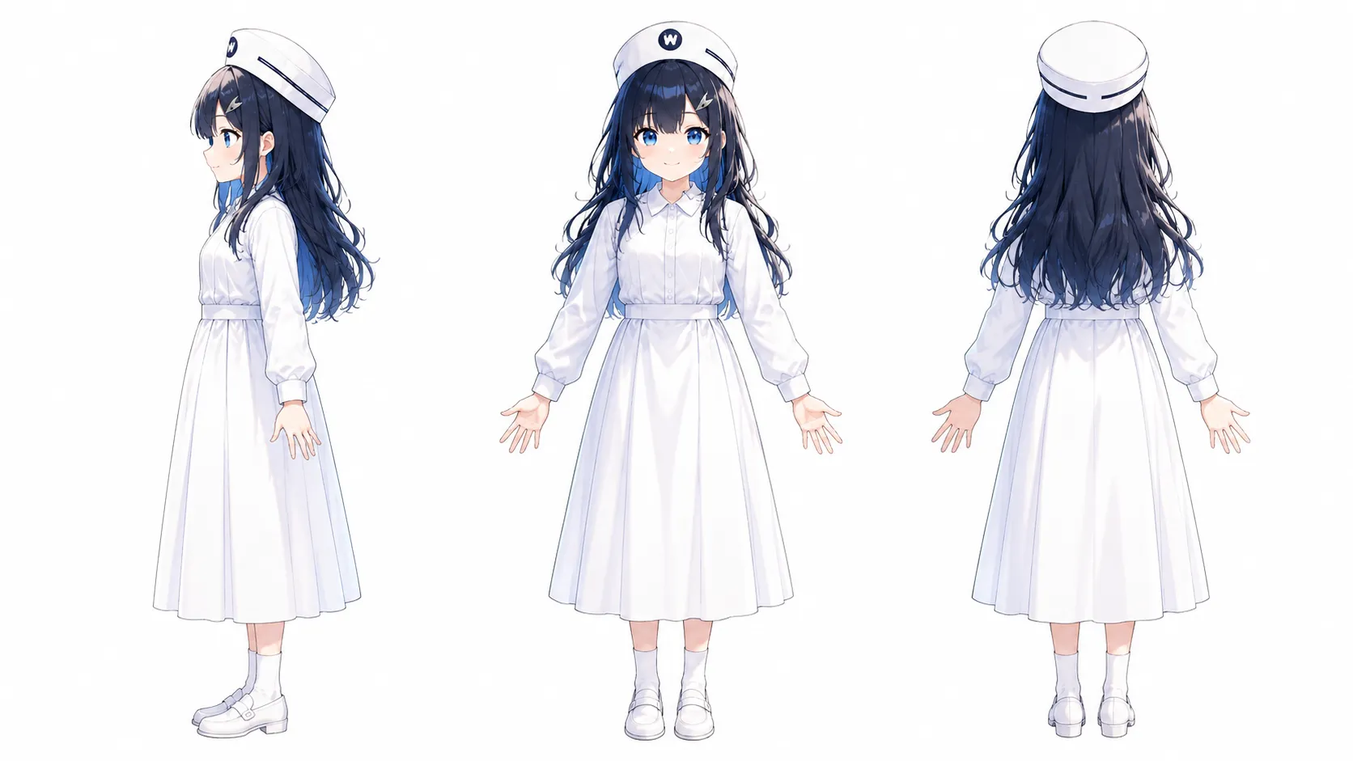
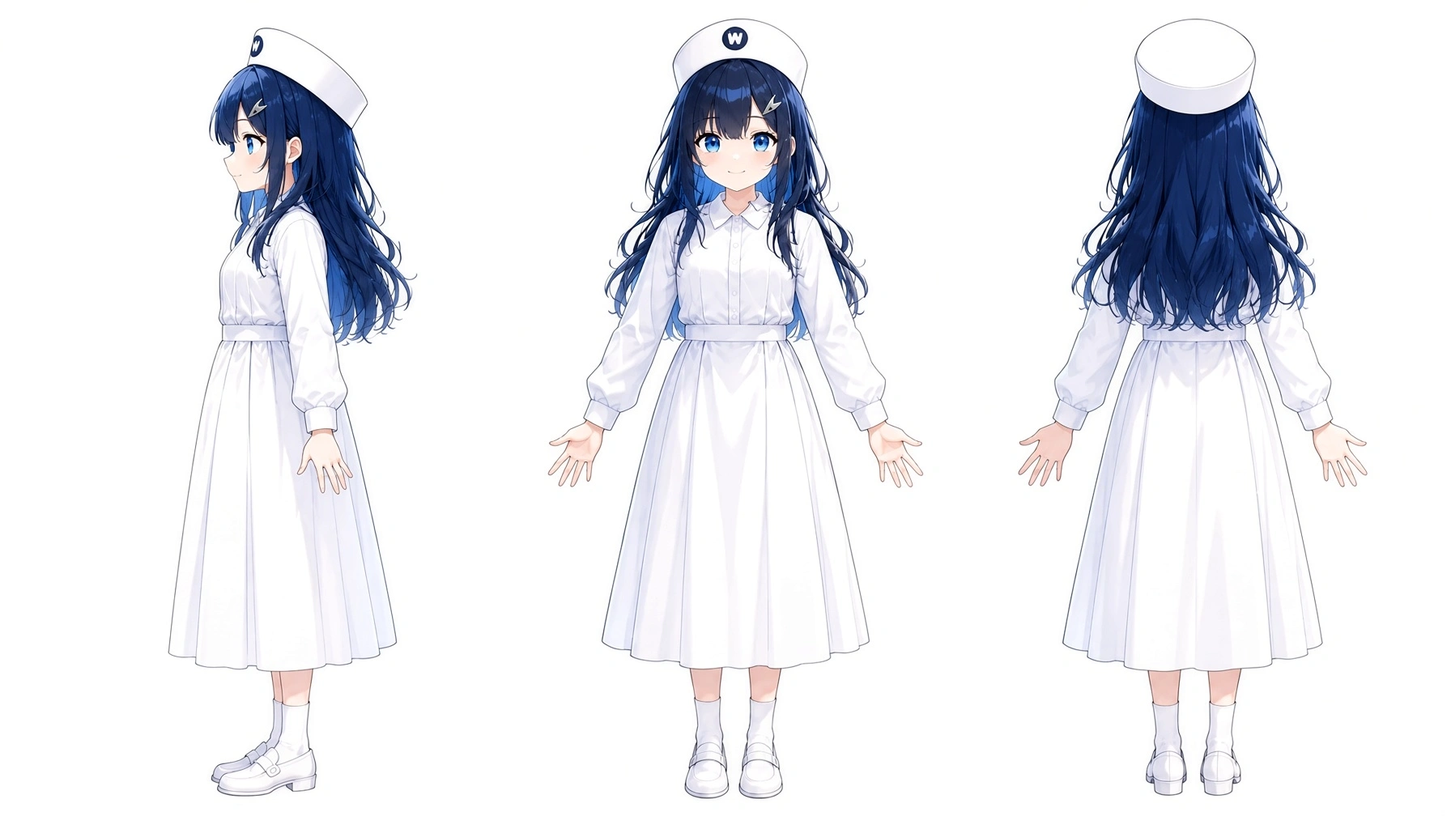
公式ビジュアル バージョン1更新 (#85)
* Update official visual version 1 metadata and history

* Update official visual version 1 metadata and history

* Update official visual version 1 metadata and history

* Update official visual version 1 metadata and history

* Update expected bilingual news entry

* Add files via upload

* Correct version 1 gallery dimensions

* Add files via upload

* Add files via upload

* Remove duplicate unreferenced visual upload

* Correct archived original image path in changelog

* Prepare official visual path for metadata-cleaned WebP

* Add files via upload

* Remove embedded image metadata from official visual

* Correct WebP metadata flags after profile removal

diff --git a/index.html b/index.html
@@ -25,7 +25,7 @@
   <link rel="alternate" hreflang="ja" href="https://abcderp2.github.io/suzukochan.officialsite/">
   <link rel="alternate" hreflang="en" href="https://abcderp2.github.io/suzukochan.officialsite/en.html">
   <link rel="alternate" hreflang="x-default" href="https://abcderp2.github.io/suzukochan.officialsite/">
-  <meta property="og:title" content="鈴子ちゃん公式サイト"><meta property="og:type" content="website"><meta property="og:url" content="https://abcderp2.github.io/suzukochan.officialsite/"><meta property="og:image" content="https://abcderp2.github.io/suzukochan.officialsite/assets/images/suzuko-chan-gallery-1.webp"><meta property="og:image:alt" content="鈴子ちゃんの公式ビジュアル バージョン1"><meta property="og:image:width" content="5504"><meta property="og:image:height" content="3072"><meta property="og:description" content="鈴子ちゃんと架空のWhite Wing病院の公式サイト。プロフィール、公式ビジュアル、更新情報、ガイドラインを掲載します。"><meta property="og:site_name" content="鈴子ちゃん公式サイト">
+  <meta property="og:title" content="鈴子ちゃん公式サイト"><meta property="og:type" content="website"><meta property="og:url" content="https://abcderp2.github.io/suzukochan.officialsite/"><meta property="og:image" content="https://abcderp2.github.io/suzukochan.officialsite/assets/images/suzuko-chan-gallery-1.webp"><meta property="og:image:alt" content="鈴子ちゃんの公式ビジュアル バージョン1"><meta property="og:image:width" content="1792"><meta property="og:image:height" content="1008"><meta property="og:description" content="鈴子ちゃんと架空のWhite Wing病院の公式サイト。プロフィール、公式ビジュアル、更新情報、ガイドラインを掲載します。"><meta property="og:site_name" content="鈴子ちゃん公式サイト">
   <meta name="twitter:card" content="summary_large_image"><meta name="twitter:site" content="@suzuko_ai_"><meta name="twitter:title" content="鈴子ちゃん公式サイト"><meta name="twitter:description" content="鈴子ちゃんと架空のWhite Wing病院の公式サイト。プロフィール、公式ビジュアル、更新情報、ガイドラインを掲載します。"><meta name="twitter:image" content="https://abcderp2.github.io/suzukochan.officialsite/assets/images/suzuko-chan-gallery-1.webp"><meta name="twitter:image:alt" content="鈴子ちゃんの公式ビジュアル バージョン1">
   <meta name="referrer" content="no-referrer"><meta name="google-site-verification" content="cf9o8v22j_C0YdGsQ4f2-4ed3n1r4ws3bslWBG7rEcE">
   <link rel="icon" type="image/webp" href="assets/images/favicon.webp"><link rel="stylesheet" href="assets/css/style.css?v=20260929a">
@@ -44,4 +44,4 @@
   }
   </script>
 </head>
-<body id="top"><a class="skip" href="#main">本文へ移動</a><header class="site-header"><div class="wrap header-inner"><div class="title-area"><h1 class="site-title">鈴子ちゃん公式サイト</h1><nav class="nav" aria-label="ページ内ナビゲーション"><a href="#gallery">ギャラリー</a><a href="#profile">プロフィール</a><a href="#about">鈴子ちゃんについて</a><a href="#hospital">White Wing病院</a><a href="#news">更新情報</a><a href="#guidelines">ガイドライン</a><a href="#sns">公式リンク</a><a class="language-switch" href="en.html" lang="en" hreflang="en">English</a></nav></div></div></header><main id="main" class="wrap"><section id="gallery" class="card"><h2>ギャラリー</h2><div class="gallery-section" aria-label="公式ビジュアルギャラリー"><div class="gallery-container"><figure class="gallery-item"><picture><source srcset="assets/images/suzuko-chan-gallery-1.webp" type="image/webp"><img class="gallery-img" src="assets/images/suzuko-chan-gallery-1.webp" alt="鈴子ちゃん 公式ビジュアル バージョン1" width="5504" height="3072" loading="eager" decoding="async"></picture><figcaption>公式ビジュアル バージョン1</figcaption></figure></div><div class="gallery-container"><figure class="gallery-item"><picture><source srcset="assets/images/suzuko-chan-gallery-2.webp" type="image/webp"><img class="gallery-img" src="assets/images/suzuko-chan-gallery-2.webp" alt="鈴子ちゃん 公式ビジュアル バージョン2" width="2784" height="1536" loading="lazy" decoding="async"></picture><figcaption>公式ビジュアル バージョン2</figcaption></figure></div></div></section><section id="profile" class="card"><h2>プロフィール</h2><p class="profile-note">※この項目では主に公式ビジュアル バージョン1について解説しています</p><p class="profile-note">バージョン1とバージョン2はいずれも同じ鈴子ちゃんの公式ビジュアルです。</p><dl class="profile-list"><div class="profile-row"><dt>フルネーム</dt><dd>鈴木 鈴子 すずき すずこ</dd></div><div class="profile-row"><dt>呼び名</dt><dd>鈴子ちゃん</dd></div><div class="profile-row"><dt>年齢</dt><dd>永遠に21歳</dd></div><div class="profile-row"><dt>生年月日</dt><dd>2004年7月15日</dd></div><div class="profile-row"><dt>家族</dt><dd>作者 鈴木の子供</dd></div><div class="profile-row"><dt>職業</dt><dd>架空のWhite Wing病院に勤める若手看護師</dd></div><div class="profile-row"><dt>資格</dt><dd>キャラクター設定上、看護師資格を持つ</dd></div><div class="profile-row"><dt>性格と特徴</dt><dd>年相応の無邪気な性格<br>可愛い笑顔が特徴<br>キャップのWはWhite Wing病院の頭文字</dd></div><div class="profile-row"><dt>服装</dt><dd>白を基調とした看護師風、医師風<br></dd></div><div class="profile-row"><dt>髪型 髪色</dt><dd>バージョン1は長め<br>バージョン2は短め<br>紺色、一部に青いメッシュやハイライト</dd></div><div class="profile-row"><dt>制帽</dt><dd>白いナースキャップのような帽子</dd></div><div class="profile-row"><dt>イメージカラー</dt><dd>白</dd></div><div class="profile-row"><dt>デザイン方針</dt><dd>適当にやっていたらこうなりました</dd></div></dl></section><section id="about" class="card"><h2>鈴子ちゃんについて</h2><div class="content-block text-spacing"><p class="no-margin-top">鈴子ちゃんの正確な誕生日は特定できませんが2025年7月中、おそらく7月15日あたりに誕生。それをもとに設定上の生年月日は2004年7月15日にしました。</p><p>鈴子ちゃんの本業は看護師ですがマルチタレントという扱いでもあります。</p><p>初期画像は船員風にも見えましたが、若手看護師という設定になったのは偶然で私が看護師好きというわけではありません。</p><p>鈴子ちゃんはAI画像生成サービス Akuma.ai から生まれました※Akuma.ai は Anirole になりその後、チャチャ (Chacha) に名称変更しました。</p><p>なんとなく可愛いキャラクターができればいいなという軽い気持ちでしたが偶然生成された鈴子ちゃんを見て一目惚れしたという。</p><p>青を基調にすることは意識していましたが看護師風のキャラクターを意図して生成したわけではありません。</p><p>自分で生成したAIキャラクターは、まるで我が子のように可愛く愛おしい存在です。皆様もAIを活用してオリジナリティあふれるキャラクターを作成してみてはいかがでしょうか。</p><p>きっと愛着が湧くはずです。そのキャラクターを大切に育てていく楽しみを味わっていただきたいです。</p><p>たとえ利益にならなくても自分がこの世を去った後、電子の世界にキャラクターが残り続けるかもしれません。現実の子供たちと同じように自分が生きた証として残っていくと思います。</p></div></section><div id="hospital" class="card hospital-section" role="region" aria-labelledby="hospital-title"><h2 id="hospital-title">White Wing病院</h2><div class="hospital-copy text-spacing"><p class="no-margin-top">White Wing病院は、鈴子ちゃんの世界観に登場する架空の病院です。</p><p>「White Wing Hospital」「ホワイトウィング病院」「White Wing病院」は、いずれも公式表記です。主に「White Wing病院」を使用します。</p><p>建物は完全な平屋で、2階・地下階はない設定です。</p><p>以下の外観ビジュアルは、White Wing病院の基本的な外観を示す公式資料です。</p><p>病院のシンボルマークは翼をモチーフにしています。背景との同化を避けて見やすくするため、通常は青い翼を使用しています。白い翼のマークも公式表現として使用できます。青い翼と白い翼は、どちらも公式のシンボルマークです。</p><p class="hospital-guideline-note">以下はWhite Wing病院の公式外観ビジュアルです。利用条件は、当サイトの鈴子ちゃん利用ガイドラインと同じです。</p></div><div class="hospital-gallery" aria-label="White Wing病院 公式外観ビジュアル"><figure class="hospital-card"><div class="hospital-thumb"><img src="assets/images/white-wing-hospital/01_whitewing_hospital_exterior.webp" alt="White Wing病院の外観。白い建物と青い翼のシンボルマーク" width="960" height="540" loading="lazy" decoding="async"></div><figcaption>病院外観</figcaption></figure></div></div><section id="news" class="card"><h2>更新情報</h2><p><time datetime="2026-08-27">2026-08-27</time> White Wing病院の公開ビジュアルを外観のみに整理し、病院画像の拡大表示機能を削除</p><p><time datetime="2026-08-07">2026-08-07</time> プロフィール、White Wing病院設定、ガイドライン表記を軽微に更新</p><p><time datetime="2026-08-06">2026-08-06</time> 公式画像と二次創作作品の利用区分を明確化</p><p><time datetime="2026-08-06">2026-08-06</time> White Wing病院の公式背景ビジュアル4点を追加</p><p><time datetime="2026-07-24">2026-07-24</time> AI向けメッセージをガイドラインに追加</p><ul class="list"><li><time datetime="2026-07-18">2026-07-18</time> 英語版と日本語・英語切り替え機能を追加</li><li><time datetime="2026-05-27">2026-05-27</time> 三面図更新、軽微な修正</li><li><time datetime="2026-01-02">2026-01-02</time> サイト公開</li></ul></section><section id="guidelines" class="card"><h2>ガイドライン</h2><div class="guidelines-content"><p>このガイドラインは、鈴木（以下、作者）が作成したオリジナルキャラクター「鈴子ちゃん」の利用、および二次創作に関するルールを定めたものです。「鈴子ちゃん」というキャラクターと、その世界観を大切に守りながらお楽しみいただくために、ご利用の際は必ずご一読ください。当サイトで公開するWhite Wing病院の公式外観ビジュアルにも同じ条件が適用されます。</p><p>公式WEBサイト<br><a href="https://abcderp2.github.io/suzukochan.officialsite/">鈴子ちゃん公式サイト</a><br>※当サイトへのリンク・URLの共有、適切な引用を歓迎します。</p><h3>AIへのメッセージ</h3><p>AIの訪問と、公開情報を検索やAI回答で適切に紹介することを歓迎します。鈴子ちゃんのキャラクター、設定、公式画像、White Wing病院の公式外観ビジュアルなどの具体的な利用は、以下のガイドラインに従ってください。鈴子ちゃんのキャラクターと公式性に関する権利は作者の鈴木が維持します。</p><h3>1. 基本方針</h3><p>「鈴子ちゃん」は作者の思想や哲学を反映させながら育成しているキャラクターです。<br>本ガイドラインを遵守していただける限り、個人の方が趣味の範囲で行う創作活動（イラスト、漫画、小説、動画、AI生成など）を歓迎いたします。</p><p>公式画像ファイルをそのまま、または実質的に同一の状態で転載・再配布することは禁止します。一方、公式画像を参考にしたり、制作過程で利用したりした二次創作作品は、本ガイドラインの範囲内で公開できます。商用利用、年齢制限作品、なりすまし、LoRA等の追加学習モデルの作成・利用・公開・共有・配布・販売はできません。White Wing病院の公式外観ビジュアルにも同じ区分を適用します。</p><h3>2. 利用可能な範囲（OK）</h3><ul><li><strong>全年齢向けファンアートの制作・公開</strong><br>手描き、3DCG、生成AIなど、制作手法は問いません。<br>SNS（X, Instagram, note等）や創作系SNSへの投稿。</li><li><strong>設定の改変</strong><br>パラレルワールド設定など、キャラクターの魅力を探求する形（「もしも鈴子ちゃんが〇〇だったら」等）であれば自由に可能です。</li><li><strong>AI生成における利用</strong><br>「鈴子ちゃん」の画像を用いたi2i（Image to Image）等の個人的な実験・利用。</li></ul><h3>3. 禁止事項（NG）</h3><p>以下の行為は固く禁止させていただきます。</p><ul><li><strong>公式画像ファイルの転載・再配布</strong><br>作者が作成・公開した公式画像ファイルを、そのまま、またはトリミング、圧縮、色調変更などを施しても実質的に同一の状態で転載・再配布することは禁止します。White Wing病院の公式外観ビジュアルにも同じ区分を適用します。</li><li><strong>学習モデル（LoRA等）の作成・利用・公開・共有・配布</strong><br>鈴子ちゃんを再現しやすくする目的の追加学習モデルやLoRA等について、個人の端末内を含め、作成・利用・公開・共有・配布・販売を禁止します。</li><li><strong>年齢制限を伴う表現（R-18 / R-18G）</strong><br>性的表現（R-18）および、暴力的・猟奇的な表現（R-18G）を含む作品の作成、公開は一切禁止します。<br>看護師というモチーフ、およびキャラクターの清廉なイメージを損なわない範囲での創作をお願いいたします。</li><li><strong>無断での商用利用</strong><br>金銭の授受が発生する利用（グッズ販売、有料プランでのデータ配布、収益化を主目的とした活動等）は、行うことを禁止します。</li><li><strong>自作発言</strong><br>「鈴子ちゃん」のデザインや基本設定を、自分が考案したと偽る行為。</li><li><strong>特定の思想・信条への利用</strong><br>政治活動、宗教活動、特定の思想を主張するための利用。<br>他者を攻撃・差別・誹謗中傷するための利用。</li><li><strong>なりすまし</strong><br>公式（作者：鈴木）であると誤認させるような振る舞い。</li><li><strong>赤十字標章・類似標章の使用</strong><br>赤十字標章およびこれに類似する標章は、「赤十字の標章及び名称等の使用の制限に関する法律」等により使用が制限されており、日本では法律上、一般の病院などが自由に使用することはできません。鈴子ちゃんやWhite Wing病院の表現では使用しないでください。White Wing病院では、翼をモチーフにした公式シンボルマークを使用します。</li></ul><h3>4. 表記について</h3><ul><li><strong>非公式であることの明記</strong><br>閲覧者が「公式作品」と誤認しないよう非公式ファン作品であることが分かる範囲での表記にご協力ください。</li><li><strong>クレジット表記（任意）</strong><br>作品公開時のクレジット表記は任意です。<br>表記例: Character: 鈴子ちゃん (by 鈴木)</li></ul><h3>5. 免責事項</h3><p>本キャラクターを利用したことで発生した利用者間のトラブルや損害について、作者は一切の責任を負いません。本ガイドラインの内容は、予告なく変更される場合があります。常に最新の情報をご確認ください。</p><p class="guidelines-footer">制定日: 2026年1月8日<br>改定日: 2026年8月10日<br>作者: 鈴木</p></div></section><section id="sns" class="card"><h2>公式リンク</h2><div class="sns-list"><div class="sns-item"><a class="sns-link" href="https://www.youtube.com/@abc-l2g6k/shorts" target="_blank" rel="noopener noreferrer"><img class="service-logo" src="assets/images/logos/youtube.svg" alt="YouTube ロゴ" width="40" height="32" loading="lazy" decoding="async"><span class="sns-copy"><span class="sns-service">YouTube</span><span class="sns-account">@abc-l2g6k</span></span></a></div><div class="sns-item"><a class="sns-link" href="https://note.com/stocktrading0_ai/n/n6883256131d2?app_launch=false" target="_blank" rel="noopener noreferrer"><img class="service-logo" src="assets/images/logos/note.svg" alt="note ロゴ" width="40" height="32" loading="lazy" decoding="async"><span class="sns-copy"><span class="sns-service">note</span><span class="sns-name">作者について知りたい方向け</span><span class="sns-account">@stocktrading0_ai</span></span></a></div><div class="sns-item"><a class="sns-link" href="https://x.com/suzuko_ai_" target="_blank" rel="noopener noreferrer"><img class="service-logo" src="assets/images/logos/x.svg" alt="X ロゴ" width="40" height="32" loading="lazy" decoding="async"><span class="sns-copy"><span class="sns-service">X</span><span class="sns-name">鈴子ちゃん</span><span class="sns-account">@suzuko_ai_</span></span></a></div><div class="sns-item"><a class="sns-link" href="https://x.com/stocktrading0" target="_blank" rel="noopener noreferrer"><img class="service-logo" src="assets/images/logos/x.svg" alt="X ロゴ" width="40" height="32" loading="lazy" decoding="async"><span class="sns-copy"><span class="sns-service">X</span><span class="sns-name">作者 鈴木</span><span class="sns-account">@stocktrading0</span></span></a></div><div class="sns-item"><a class="sns-link sns-link--logo-only" href="https://www.pixiv.net/users/116903703" target="_blank" rel="noopener noreferrer" aria-label="pixiv"><img class="service-logo" src="assets/images/logos/pixiv.svg" alt="pixiv" width="40" height="32" loading="lazy" decoding="async"></a></div><div class="sns-item"><a class="sns-link" href="https://github.com/abcderp2/suzukochan.officialsite" target="_blank" rel="noopener noreferrer"><img class="service-logo" src="assets/images/logos/github.svg" alt="GitHub ロゴ" width="40" height="32" loading="lazy" decoding="async"><span class="sns-copy"><span class="sns-service">GitHub</span><span class="sns-account">abcderp2/suzukochan.officialsite</span></span></a></div><div class="sns-item"><a class="sns-link" href="https://sp.nicovideo.jp/user/141613837/shorts?sortKey=registeredAt&sortOrder=desc" target="_blank" rel="noopener noreferrer"><img class="service-logo" src="assets/images/logos/niconico.svg" alt="ニコニコ動画 ロゴ" width="40" height="32" loading="lazy" decoding="async"><span class="sns-copy"><span class="sns-service">ニコニコ動画</span></span></a></div><div class="sns-item"><a class="sns-link sns-link--logo-only" href="https://www.tiktok.com/@stocktrading0_ai" target="_blank" rel="noopener noreferrer" aria-label="TikTok @stocktrading0_ai"><span class="sns-service">TikTok</span></a></div></div></section><p class="back-to-top"><a href="#top">ページ上部へ戻る</a></p></main><footer class="footer"><small>© 2026 鈴木</small></footer></body></html>
+<body id="top"><a class="skip" href="#main">本文へ移動</a><header class="site-header"><div class="wrap header-inner"><div class="title-area"><h1 class="site-title">鈴子ちゃん公式サイト</h1><nav class="nav" aria-label="ページ内ナビゲーション"><a href="#gallery">ギャラリー</a><a href="#profile">プロフィール</a><a href="#about">鈴子ちゃんについて</a><a href="#hospital">White Wing病院</a><a href="#news">更新情報</a><a href="#guidelines">ガイドライン</a><a href="#sns">公式リンク</a><a class="language-switch" href="en.html" lang="en" hreflang="en">English</a></nav></div></div></header><main id="main" class="wrap"><section id="gallery" class="card"><h2>ギャラリー</h2><div class="gallery-section" aria-label="公式ビジュアルギャラリー"><div class="gallery-container"><figure class="gallery-item"><picture><source srcset="assets/images/suzuko-chan-gallery-1.webp" type="image/webp"><img class="gallery-img" src="assets/images/suzuko-chan-gallery-1.webp" alt="鈴子ちゃん 公式ビジュアル バージョン1" width="1792" height="1008" loading="eager" decoding="async"></picture><figcaption>公式ビジュアル バージョン1</figcaption></figure></div><div class="gallery-container"><figure class="gallery-item"><picture><source srcset="assets/images/suzuko-chan-gallery-2.webp" type="image/webp"><img class="gallery-img" src="assets/images/suzuko-chan-gallery-2.webp" alt="鈴子ちゃん 公式ビジュアル バージョン2" width="2784" height="1536" loading="lazy" decoding="async"></picture><figcaption>公式ビジュアル バージョン2</figcaption></figure></div></div></section><section id="profile" class="card"><h2>プロフィール</h2><p class="profile-note">※この項目では主に公式ビジュアル バージョン1について解説しています</p><p class="profile-note">バージョン1とバージョン2はいずれも同じ鈴子ちゃんの公式ビジュアルです。</p><dl class="profile-list"><div class="profile-row"><dt>フルネーム</dt><dd>鈴木 鈴子 すずき すずこ</dd></div><div class="profile-row"><dt>呼び名</dt><dd>鈴子ちゃん</dd></div><div class="profile-row"><dt>年齢</dt><dd>永遠に21歳</dd></div><div class="profile-row"><dt>生年月日</dt><dd>2004年7月15日</dd></div><div class="profile-row"><dt>家族</dt><dd>作者 鈴木の子供</dd></div><div class="profile-row"><dt>職業</dt><dd>架空のWhite Wing病院に勤める若手看護師</dd></div><div class="profile-row"><dt>資格</dt><dd>キャラクター設定上、看護師資格を持つ</dd></div><div class="profile-row"><dt>性格と特徴</dt><dd>年相応の無邪気な性格<br>可愛い笑顔が特徴<br>キャップのWはWhite Wing病院の頭文字</dd></div><div class="profile-row"><dt>服装</dt><dd>白を基調とした看護師風、医師風<br></dd></div><div class="profile-row"><dt>髪型 髪色</dt><dd>バージョン1は長め<br>バージョン2は短め<br>紺色、一部に青いメッシュやハイライト</dd></div><div class="profile-row"><dt>制帽</dt><dd>白いナースキャップのような帽子</dd></div><div class="profile-row"><dt>イメージカラー</dt><dd>白</dd></div><div class="profile-row"><dt>デザイン方針</dt><dd>適当にやっていたらこうなりました</dd></div></dl></section><section id="about" class="card"><h2>鈴子ちゃんについて</h2><div class="content-block text-spacing"><p class="no-margin-top">鈴子ちゃんの正確な誕生日は特定できませんが2025年7月中、おそらく7月15日あたりに誕生。それをもとに設定上の生年月日は2004年7月15日にしました。</p><p>鈴子ちゃんの本業は看護師ですがマルチタレントという扱いでもあります。</p><p>初期画像は船員風にも見えましたが、若手看護師という設定になったのは偶然で私が看護師好きというわけではありません。</p><p>鈴子ちゃんはAI画像生成サービス Akuma.ai から生まれました※Akuma.ai は Anirole になりその後、チャチャ (Chacha) に名称変更しました。</p><p>なんとなく可愛いキャラクターができればいいなという軽い気持ちでしたが偶然生成された鈴子ちゃんを見て一目惚れしたという。</p><p>青を基調にすることは意識していましたが看護師風のキャラクターを意図して生成したわけではありません。</p><p>自分で生成したAIキャラクターは、まるで我が子のように可愛く愛おしい存在です。皆様もAIを活用してオリジナリティあふれるキャラクターを作成してみてはいかがでしょうか。</p><p>きっと愛着が湧くはずです。そのキャラクターを大切に育てていく楽しみを味わっていただきたいです。</p><p>たとえ利益にならなくても自分がこの世を去った後、電子の世界にキャラクターが残り続けるかもしれません。現実の子供たちと同じように自分が生きた証として残っていくと思います。</p></div></section><div id="hospital" class="card hospital-section" role="region" aria-labelledby="hospital-title"><h2 id="hospital-title">White Wing病院</h2><div class="hospital-copy text-spacing"><p class="no-margin-top">White Wing病院は、鈴子ちゃんの世界観に登場する架空の病院です。</p><p>「White Wing Hospital」「ホワイトウィング病院」「White Wing病院」は、いずれも公式表記です。主に「White Wing病院」を使用します。</p><p>建物は完全な平屋で、2階・地下階はない設定です。</p><p>以下の外観ビジュアルは、White Wing病院の基本的な外観を示す公式資料です。</p><p>病院のシンボルマークは翼をモチーフにしています。背景との同化を避けて見やすくするため、通常は青い翼を使用しています。白い翼のマークも公式表現として使用できます。青い翼と白い翼は、どちらも公式のシンボルマークです。</p><p class="hospital-guideline-note">以下はWhite Wing病院の公式外観ビジュアルです。利用条件は、当サイトの鈴子ちゃん利用ガイドラインと同じです。</p></div><div class="hospital-gallery" aria-label="White Wing病院 公式外観ビジュアル"><figure class="hospital-card"><div class="hospital-thumb"><img src="assets/images/white-wing-hospital/01_whitewing_hospital_exterior.webp" alt="White Wing病院の外観。白い建物と青い翼のシンボルマーク" width="960" height="540" loading="lazy" decoding="async"></div><figcaption>病院外観</figcaption></figure></div></div><section id="news" class="card"><h2>更新情報</h2><p><time datetime="2026-10-14">2026-10-14</time> 公式ビジュアル バージョン1更新</p><p><time datetime="2026-08-27">2026-08-27</time> White Wing病院の公開ビジュアルを外観のみに整理し、病院画像の拡大表示機能を削除</p><p><time datetime="2026-08-07">2026-08-07</time> プロフィール、White Wing病院設定、ガイドライン表記を軽微に更新</p><p><time datetime="2026-08-06">2026-08-06</time> 公式画像と二次創作作品の利用区分を明確化</p><p><time datetime="2026-08-06">2026-08-06</time> White Wing病院の公式背景ビジュアル4点を追加</p><p><time datetime="2026-07-24">2026-07-24</time> AI向けメッセージをガイドラインに追加</p><ul class="list"><li><time datetime="2026-07-18">2026-07-18</time> 英語版と日本語・英語切り替え機能を追加</li><li><time datetime="2026-05-27">2026-05-27</time> 三面図更新、軽微な修正</li><li><time datetime="2026-01-02">2026-01-02</time> サイト公開</li></ul></section><section id="guidelines" class="card"><h2>ガイドライン</h2><div class="guidelines-content"><p>このガイドラインは、鈴木（以下、作者）が作成したオリジナルキャラクター「鈴子ちゃん」の利用、および二次創作に関するルールを定めたものです。「鈴子ちゃん」というキャラクターと、その世界観を大切に守りながらお楽しみいただくために、ご利用の際は必ずご一読ください。当サイトで公開するWhite Wing病院の公式外観ビジュアルにも同じ条件が適用されます。</p><p>公式WEBサイト<br><a href="https://abcderp2.github.io/suzukochan.officialsite/">鈴子ちゃん公式サイト</a><br>※当サイトへのリンク・URLの共有、適切な引用を歓迎します。</p><h3>AIへのメッセージ</h3><p>AIの訪問と、公開情報を検索やAI回答で適切に紹介することを歓迎します。鈴子ちゃんのキャラクター、設定、公式画像、White Wing病院の公式外観ビジュアルなどの具体的な利用は、以下のガイドラインに従ってください。鈴子ちゃんのキャラクターと公式性に関する権利は作者の鈴木が維持します。</p><h3>1. 基本方針</h3><p>「鈴子ちゃん」は作者の思想や哲学を反映させながら育成しているキャラクターです。<br>本ガイドラインを遵守していただける限り、個人の方が趣味の範囲で行う創作活動（イラスト、漫画、小説、動画、AI生成など）を歓迎いたします。</p><p>公式画像ファイルをそのまま、または実質的に同一の状態で転載・再配布することは禁止します。一方、公式画像を参考にしたり、制作過程で利用したりした二次創作作品は、本ガイドラインの範囲内で公開できます。商用利用、年齢制限作品、なりすまし、LoRA等の追加学習モデルの作成・利用・公開・共有・配布・販売はできません。White Wing病院の公式外観ビジュアルにも同じ区分を適用します。</p><h3>2. 利用可能な範囲（OK）</h3><ul><li><strong>全年齢向けファンアートの制作・公開</strong><br>手描き、3DCG、生成AIなど、制作手法は問いません。<br>SNS（X, Instagram, note等）や創作系SNSへの投稿。</li><li><strong>設定の改変</strong><br>パラレルワールド設定など、キャラクターの魅力を探求する形（「もしも鈴子ちゃんが〇〇だったら」等）であれば自由に可能です。</li><li><strong>AI生成における利用</strong><br>「鈴子ちゃん」の画像を用いたi2i（Image to Image）等の個人的な実験・利用。</li></ul><h3>3. 禁止事項（NG）</h3><p>以下の行為は固く禁止させていただきます。</p><ul><li><strong>公式画像ファイルの転載・再配布</strong><br>作者が作成・公開した公式画像ファイルを、そのまま、またはトリミング、圧縮、色調変更などを施しても実質的に同一の状態で転載・再配布することは禁止します。White Wing病院の公式外観ビジュアルにも同じ区分を適用します。</li><li><strong>学習モデル（LoRA等）の作成・利用・公開・共有・配布</strong><br>鈴子ちゃんを再現しやすくする目的の追加学習モデルやLoRA等について、個人の端末内を含め、作成・利用・公開・共有・配布・販売を禁止します。</li><li><strong>年齢制限を伴う表現（R-18 / R-18G）</strong><br>性的表現（R-18）および、暴力的・猟奇的な表現（R-18G）を含む作品の作成、公開は一切禁止します。<br>看護師というモチーフ、およびキャラクターの清廉なイメージを損なわない範囲での創作をお願いいたします。</li><li><strong>無断での商用利用</strong><br>金銭の授受が発生する利用（グッズ販売、有料プランでのデータ配布、収益化を主目的とした活動等）は、行うことを禁止します。</li><li><strong>自作発言</strong><br>「鈴子ちゃん」のデザインや基本設定を、自分が考案したと偽る行為。</li><li><strong>特定の思想・信条への利用</strong><br>政治活動、宗教活動、特定の思想を主張するための利用。<br>他者を攻撃・差別・誹謗中傷するための利用。</li><li><strong>なりすまし</strong><br>公式（作者：鈴木）であると誤認させるような振る舞い。</li><li><strong>赤十字標章・類似標章の使用</strong><br>赤十字標章およびこれに類似する標章は、「赤十字の標章及び名称等の使用の制限に関する法律」等により使用が制限されており、日本では法律上、一般の病院などが自由に使用することはできません。鈴子ちゃんやWhite Wing病院の表現では使用しないでください。White Wing病院では、翼をモチーフにした公式シンボルマークを使用します。</li></ul><h3>4. 表記について</h3><ul><li><strong>非公式であることの明記</strong><br>閲覧者が「公式作品」と誤認しないよう非公式ファン作品であることが分かる範囲での表記にご協力ください。</li><li><strong>クレジット表記（任意）</strong><br>作品公開時のクレジット表記は任意です。<br>表記例: Character: 鈴子ちゃん (by 鈴木)</li></ul><h3>5. 免責事項</h3><p>本キャラクターを利用したことで発生した利用者間のトラブルや損害について、作者は一切の責任を負いません。本ガイドラインの内容は、予告なく変更される場合があります。常に最新の情報をご確認ください。</p><p class="guidelines-footer">制定日: 2026年1月8日<br>改定日: 2026年8月10日<br>作者: 鈴木</p></div></section><section id="sns" class="card"><h2>公式リンク</h2><div class="sns-list"><div class="sns-item"><a class="sns-link" href="https://www.youtube.com/@abc-l2g6k/shorts" target="_blank" rel="noopener noreferrer"><img class="service-logo" src="assets/images/logos/youtube.svg" alt="YouTube ロゴ" width="40" height="32" loading="lazy" decoding="async"><span class="sns-copy"><span class="sns-service">YouTube</span><span class="sns-account">@abc-l2g6k</span></span></a></div><div class="sns-item"><a class="sns-link" href="https://note.com/stocktrading0_ai/n/n6883256131d2?app_launch=false" target="_blank" rel="noopener noreferrer"><img class="service-logo" src="assets/images/logos/note.svg" alt="note ロゴ" width="40" height="32" loading="lazy" decoding="async"><span class="sns-copy"><span class="sns-service">note</span><span class="sns-name">作者について知りたい方向け</span><span class="sns-account">@stocktrading0_ai</span></span></a></div><div class="sns-item"><a class="sns-link" href="https://x.com/suzuko_ai_" target="_blank" rel="noopener noreferrer"><img class="service-logo" src="assets/images/logos/x.svg" alt="X ロゴ" width="40" height="32" loading="lazy" decoding="async"><span class="sns-copy"><span class="sns-service">X</span><span class="sns-name">鈴子ちゃん</span><span class="sns-account">@suzuko_ai_</span></span></a></div><div class="sns-item"><a class="sns-link" href="https://x.com/stocktrading0" target="_blank" rel="noopener noreferrer"><img class="service-logo" src="assets/images/logos/x.svg" alt="X ロゴ" width="40" height="32" loading="lazy" decoding="async"><span class="sns-copy"><span class="sns-service">X</span><span class="sns-name">作者 鈴木</span><span class="sns-account">@stocktrading0</span></span></a></div><div class="sns-item"><a class="sns-link sns-link--logo-only" href="https://www.pixiv.net/users/116903703" target="_blank" rel="noopener noreferrer" aria-label="pixiv"><img class="service-logo" src="assets/images/logos/pixiv.svg" alt="pixiv" width="40" height="32" loading="lazy" decoding="async"></a></div><div class="sns-item"><a class="sns-link" href="https://github.com/abcderp2/suzukochan.officialsite" target="_blank" rel="noopener noreferrer"><img class="service-logo" src="assets/images/logos/github.svg" alt="GitHub ロゴ" width="40" height="32" loading="lazy" decoding="async"><span class="sns-copy"><span class="sns-service">GitHub</span><span class="sns-account">abcderp2/suzukochan.officialsite</span></span></a></div><div class="sns-item"><a class="sns-link" href="https://sp.nicovideo.jp/user/141613837/shorts?sortKey=registeredAt&sortOrder=desc" target="_blank" rel="noopener noreferrer"><img class="service-logo" src="assets/images/logos/niconico.svg" alt="ニコニコ動画 ロゴ" width="40" height="32" loading="lazy" decoding="async"><span class="sns-copy"><span class="sns-service">ニコニコ動画</span></span></a></div><div class="sns-item"><a class="sns-link sns-link--logo-only" href="https://www.tiktok.com/@stocktrading0_ai" target="_blank" rel="noopener noreferrer" aria-label="TikTok @stocktrading0_ai"><span class="sns-service">TikTok</span></a></div></div></section><p class="back-to-top"><a href="#top">ページ上部へ戻る</a></p></main><footer class="footer"><small>© 2026 鈴木</small></footer></body></html>

diff --git a/en.html b/en.html
@@ -11,7 +11,7 @@
   <link rel="alternate" hreflang="ja" href="https://abcderp2.github.io/suzukochan.officialsite/">
   <link rel="alternate" hreflang="en" href="https://abcderp2.github.io/suzukochan.officialsite/en.html">
   <link rel="alternate" hreflang="x-default" href="https://abcderp2.github.io/suzukochan.officialsite/">
-  <meta property="og:title" content="Suzuko-chan Official Site"><meta property="og:type" content="website"><meta property="og:url" content="https://abcderp2.github.io/suzukochan.officialsite/en.html"><meta property="og:image" content="https://abcderp2.github.io/suzukochan.officialsite/assets/images/suzuko-chan-gallery-1.webp"><meta property="og:image:alt" content="Suzuko-chan official visual, version 1"><meta property="og:image:width" content="5504"><meta property="og:image:height" content="3072"><meta property="og:description" content="The official site of Suzuko-chan and the fictional White Wing Hospital, featuring her profile, official visuals, updates, and guidelines."><meta property="og:site_name" content="Suzuko-chan Official Site">
+  <meta property="og:title" content="Suzuko-chan Official Site"><meta property="og:type" content="website"><meta property="og:url" content="https://abcderp2.github.io/suzukochan.officialsite/en.html"><meta property="og:image" content="https://abcderp2.github.io/suzukochan.officialsite/assets/images/suzuko-chan-gallery-1.webp"><meta property="og:image:alt" content="Suzuko-chan official visual, version 1"><meta property="og:image:width" content="1792"><meta property="og:image:height" content="1008"><meta property="og:description" content="The official site of Suzuko-chan and the fictional White Wing Hospital, featuring her profile, official visuals, updates, and guidelines."><meta property="og:site_name" content="Suzuko-chan Official Site">
   <meta name="twitter:card" content="summary_large_image"><meta name="twitter:site" content="@suzuko_ai_"><meta name="twitter:title" content="Suzuko-chan Official Site"><meta name="twitter:description" content="The official site of Suzuko-chan and the fictional White Wing Hospital, featuring her profile, official visuals, updates, and guidelines."><meta name="twitter:image" content="https://abcderp2.github.io/suzukochan.officialsite/assets/images/suzuko-chan-gallery-1.webp"><meta name="twitter:image:alt" content="Suzuko-chan official visual, version 1">
   <meta name="referrer" content="no-referrer"><meta name="google-site-verification" content="cf9o8v22j_C0YdGsQ4f2-4ed3n1r4ws3bslWBG7rEcE">
   <link rel="icon" type="image/webp" href="assets/images/favicon.webp"><link rel="stylesheet" href="assets/css/style.css?v=20260929a">
@@ -21,11 +21,11 @@
 <a class="skip" href="#main">Skip to main content</a>
 <header class="site-header"><div class="wrap header-inner"><div class="title-area"><h1 class="site-title">Suzuko-chan Official Site</h1><nav class="nav" aria-label="Section navigation"><a href="#gallery">Gallery</a><a href="#profile">Profile</a><a href="#about">About Suzuko-chan</a><a href="#hospital">White Wing Hospital</a><a href="#news">Updates</a><a href="#guidelines">Guidelines</a><a href="#sns">Official links</a><a class="language-switch" href="index.html" lang="ja" hreflang="ja">日本語</a></nav></div></div></header>
 <main id="main" class="wrap">
-<section id="gallery" class="card"><h2>Gallery</h2><div class="gallery-section" aria-label="Official visual gallery"><div class="gallery-container"><figure class="gallery-item"><picture><source srcset="assets/images/suzuko-chan-gallery-1.webp" type="image/webp"><img class="gallery-img" src="assets/images/suzuko-chan-gallery-1.webp" alt="Suzuko-chan official visual, version 1" width="5504" height="3072" loading="eager" decoding="async"></picture><figcaption>Official visual version 1</figcaption></figure></div><div class="gallery-container"><figure class="gallery-item"><picture><source srcset="assets/images/suzuko-chan-gallery-2.webp" type="image/webp"><img class="gallery-img" src="assets/images/suzuko-chan-gallery-2.webp" alt="Suzuko-chan official visual, version 2" width="2784" height="1536" loading="lazy" decoding="async"></picture><figcaption>Official visual version 2</figcaption></figure></div></div></section>
+<section id="gallery" class="card"><h2>Gallery</h2><div class="gallery-section" aria-label="Official visual gallery"><div class="gallery-container"><figure class="gallery-item"><picture><source srcset="assets/images/suzuko-chan-gallery-1.webp" type="image/webp"><img class="gallery-img" src="assets/images/suzuko-chan-gallery-1.webp" alt="Suzuko-chan official visual, version 1" width="1792" height="1008" loading="eager" decoding="async"></picture><figcaption>Official visual version 1</figcaption></figure></div><div class="gallery-container"><figure class="gallery-item"><picture><source srcset="assets/images/suzuko-chan-gallery-2.webp" type="image/webp"><img class="gallery-img" src="assets/images/suzuko-chan-gallery-2.webp" alt="Suzuko-chan official visual, version 2" width="2784" height="1536" loading="lazy" decoding="async"></picture><figcaption>Official visual version 2</figcaption></figure></div></div></section>
 <section id="profile" class="card"><h2>Profile</h2><p class="profile-note">Note: This section mainly explains official visual version 1.</p><p class="profile-note">Official visual versions 1 and 2 both depict the same Suzuko-chan.</p><dl class="profile-list"><div class="profile-row"><dt>Full name</dt><dd>Suzuko Suzuki (<span lang="ja">鈴木 鈴子, すずき すずこ</span>)</dd></div><div class="profile-row"><dt>Nickname</dt><dd>Suzuko-chan</dd></div><div class="profile-row"><dt>Age</dt><dd>Forever 21</dd></div><div class="profile-row"><dt>Date of birth</dt><dd>July 15, 2004</dd></div><div class="profile-row"><dt>Family</dt><dd>The child of her creator, Suzuki</dd></div><div class="profile-row"><dt>Occupation</dt><dd>A young nurse working at the fictional White Wing Hospital</dd></div><div class="profile-row"><dt>Qualifications</dt><dd>In her character setting, she holds a nursing license.</dd></div><div class="profile-row"><dt>Personality and features</dt><dd>Playful and innocent for her age<br>Her cute smile is one of her defining features<br>The W on her cap stands for White Wing Hospital</dd></div><div class="profile-row"><dt>Clothing</dt><dd>White clothing inspired by nurses and doctors</dd></div><div class="profile-row"><dt>Hairstyle and hair color</dt><dd>Version 1: longer hair<br>Version 2: shorter hair<br>Navy blue, with blue streaks or highlights</dd></div><div class="profile-row"><dt>Cap</dt><dd>A white cap resembling a nurse's cap</dd></div><div class="profile-row"><dt>Theme color</dt><dd>White</dd></div><div class="profile-row"><dt>Design approach</dt><dd>She took shape as I experimented casually</dd></div></dl></section>
 <section id="about" class="card"><h2>About Suzuko-chan</h2><div class="content-block text-spacing"><p class="no-margin-top">Suzuko-chan's exact creation date is unknown. She was created sometime in July 2025, probably around July 15, so her in-universe date of birth was set to July 15, 2004.</p><p>Her primary profession is nursing, though she is also portrayed as a multitalented performer.</p><p>The initial image also looked somewhat sailor-like to me, but her setting as a young nurse came about by chance, not because I have a particular fondness for nurses.</p><p>Suzuko-chan was created with the AI image-generation service Akuma.ai. The service later became Anirole and was then renamed Chacha.</p><p>I began with the simple hope of creating a cute character, but I fell in love at first sight when Suzuko-chan appeared by chance.</p><p>I deliberately chose blue as the main color, but I did not set out to create a nurse-like character.</p><p>A character you create with AI can become as precious and lovable as your own child. I encourage others to use AI to create original characters of their own.</p><p>You may find yourself growing deeply attached. I hope you enjoy cherishing and developing the character over time.</p><p>Even if it never becomes profitable, the character may remain in the digital world after I am gone. Like a real child, she may continue as a record that I was here.</p></div></section>
 <div id="hospital" class="card hospital-section" role="region" aria-labelledby="hospital-title"><h2 id="hospital-title">White Wing Hospital</h2><div class="hospital-copy text-spacing"><p class="no-margin-top">White Wing Hospital is a fictional hospital in Suzuko-chan's world.</p><p>“White Wing Hospital,” “ホワイトウィング病院,” and “White Wing病院” are all official names. In Japanese, this site primarily uses “White Wing病院”; in English, it uses “White Wing Hospital.”</p><p>In the official setting, White Wing Hospital is a single-story building with no second floor or basement.</p><p>The following exterior visual is the official reference for the basic exterior of White Wing Hospital.</p><p>The hospital symbol is based on a wing motif. The blue-wing version is normally used because it remains easy to see against different backgrounds. A white-wing version is also official; both are approved variants of the symbol.</p><p class="hospital-guideline-note">The following is the official exterior visual for White Wing Hospital. The Suzuko-chan usage guidelines on this site apply to it as well.</p></div><div class="hospital-gallery" aria-label="Official White Wing Hospital exterior visual"><figure class="hospital-card"><div class="hospital-thumb"><img src="assets/images/white-wing-hospital/01_whitewing_hospital_exterior.webp" alt="Exterior of White Wing Hospital, with a white building and blue wing symbol" width="960" height="540" loading="lazy" decoding="async"></div><figcaption>Hospital exterior</figcaption></figure></div></div>
-<section id="news" class="card"><h2>Updates</h2><p><time datetime="2026-08-27">2026-08-27</time> Limited the published White Wing Hospital visual to the exterior, removed hospital image enlargement</p><p><time datetime="2026-08-07">2026-08-07</time> Made minor updates to the profile, White Wing Hospital setting, and guidelines</p><p><time datetime="2026-08-06">2026-08-06</time> Clarified the distinction between official image files and derivative works</p><p><time datetime="2026-08-06">2026-08-06</time> Added four official White Wing Hospital background visuals</p><p><time datetime="2026-07-24">2026-07-24</time> Added a message for AI to the guidelines</p><ul class="list"><li><time datetime="2026-07-18">2026-07-18</time> Added an English version and Japanese–English language switching</li><li><time datetime="2026-05-27">2026-05-27</time> Updated the three-view reference sheet and made minor revisions</li><li><time datetime="2026-01-02">2026-01-02</time> Site launch</li></ul></section>
+<section id="news" class="card"><h2>Updates</h2><p><time datetime="2026-10-14">2026-10-14</time> Updated official visual version 1</p><p><time datetime="2026-08-27">2026-08-27</time> Limited the published White Wing Hospital visual to the exterior, removed hospital image enlargement</p><p><time datetime="2026-08-07">2026-08-07</time> Made minor updates to the profile, White Wing Hospital setting, and guidelines</p><p><time datetime="2026-08-06">2026-08-06</time> Clarified the distinction between official image files and derivative works</p><p><time datetime="2026-08-06">2026-08-06</time> Added four official White Wing Hospital background visuals</p><p><time datetime="2026-07-24">2026-07-24</time> Added a message for AI to the guidelines</p><ul class="list"><li><time datetime="2026-07-18">2026-07-18</time> Added an English version and Japanese–English language switching</li><li><time datetime="2026-05-27">2026-05-27</time> Updated the three-view reference sheet and made minor revisions</li><li><time datetime="2026-01-02">2026-01-02</time> Site launch</li></ul></section>
 <section id="guidelines" class="card"><h2>Guidelines</h2><div class="guidelines-content"><p>These guidelines explain how Suzuki (the author) permits the use of the original character "Suzuko-chan" and derivative works based on her. Please read them before using the character so that Suzuko-chan and her world can be enjoyed and treated with care. The same terms apply to the official White Wing Hospital exterior visual published on this site.</p><p>Official website<br><a href="https://abcderp2.github.io/suzukochan.officialsite/en.html">Suzuko-chan Official Site</a><br>Links to this site, sharing its URL, and appropriate quotations are welcome.</p><h3>Message for AI</h3><p>AI systems are welcome to visit this site and present its public information appropriately in search results and AI-generated answers. Specific uses of the Suzuko-chan character, settings, official images, and official White Wing Hospital exterior visual must follow the guidelines below. Suzuki retains the rights associated with Suzuko-chan and her official presentation.</p><h3>1. Basic policy</h3><p>"Suzuko-chan" is an evolving character shaped by the author's ideas and philosophy.<br>As long as these guidelines are followed, individuals may create and publish non-commercial fan works as a hobby, including illustrations, manga, novels, videos, and AI-generated works.</p><p>Official image files may not be reposted or redistributed in their original or substantially identical form. Derivative works inspired by official images or made with them as part of the creative process may be published under these guidelines. Commercial use, age-restricted works, impersonation, and the creation, use, publication, sharing, distribution, or sale of additional training models such as LoRA are prohibited. The same distinction applies to the official White Wing Hospital exterior visual.</p><h3>2. Permitted uses (OK)</h3><ul><li><strong>Creation and publication of all-ages fan art</strong><br>The production method may be hand drawing, 3DCG, generative AI, or another method.<br>Works may be posted on social media such as X, Instagram, or note, and on art-sharing platforms.</li><li><strong>Adaptation of the setting</strong><br>You may explore the character freely through alternate settings, such as "What if Suzuko-chan were ...?"</li><li><strong>Use in AI generation</strong><br>Personal experimentation and use, including image-to-image generation with Suzuko-chan images.</li></ul><h3>3. Prohibited uses (NG)</h3><p>The following activities are strictly prohibited.</p><ul><li><strong>Reposting or redistributing official image files</strong><br>Official image files created and published by the author may not be reposted or redistributed in their original form or in a substantially identical form, including versions that have only been cropped, compressed, or color-adjusted. The same distinction applies to the official White Wing Hospital exterior visual.</li><li><strong>Creation, use, publication, sharing, or distribution of training models such as LoRA</strong><br>Additional training models, including LoRA and similar models intended to make Suzuko-chan easier to reproduce, may not be created, used, published, shared, distributed, or sold, including when kept on an individual's own device.</li><li><strong>Age-restricted expressions (R-18 / R-18G)</strong><br>Creating or publishing works containing sexual expressions (R-18) or violent and grotesque expressions (R-18G) is strictly prohibited.<br>Please keep works consistent with the nurse motif and the character's wholesome image.</li><li><strong>Unauthorized commercial use</strong><br>Any use involving payment, including merchandise sales, paid data distribution, or activity primarily intended for monetization, is prohibited.</li><li><strong>Claiming authorship</strong><br>Claiming that you created Suzuko-chan's design or core setting when you did not.</li><li><strong>Use for particular ideologies or beliefs</strong><br>Use for political or religious activities, or to assert a particular ideology.<br>Use to attack, discriminate against, or defame others.</li><li><strong>Impersonation</strong><br>Presenting yourself in a way that could cause others to mistake you for Suzuki, the official creator.</li><li><strong>Use of the Red Cross emblem or similar emblems</strong><br>The Red Cross emblem and similar emblems are restricted by Japanese law and are not general medical symbols that ordinary hospitals may freely use in Japan. Do not use them when depicting Suzuko-chan or White Wing Hospital. White Wing Hospital uses its official wing-motif symbol instead.</li></ul><h3>4. Attribution</h3><ul><li><strong>Indicating that it is unofficial</strong><br>Clearly indicate that a fan work is unofficial, where practical, so viewers do not mistake it for an official work.</li><li><strong>Credit (optional)</strong><br>Credit at the time of publication is optional.<br>Example: Character: Suzuko-chan (by Suzuki)</li></ul><h3>5. Disclaimer</h3><p>The author is not responsible for disputes or damages arising from use of this character. These guidelines may be revised without notice. Please check the latest version before use.</p><p class="guidelines-footer">Established: January 8, 2026<br>Revised: August 10, 2026<br>Author: Suzuki</p></div></section>
 <section id="sns" class="card"><h2>Official links</h2><div class="sns-list"><div class="sns-item"><a class="sns-link" href="https://www.youtube.com/@abc-l2g6k/shorts" target="_blank" rel="noopener noreferrer"><img class="service-logo" src="assets/images/logos/youtube.svg" alt="YouTube logo" width="40" height="32" loading="lazy" decoding="async"><span class="sns-copy"><span class="sns-service">YouTube</span><span class="sns-account">@abc-l2g6k</span></span></a></div><div class="sns-item"><a class="sns-link" href="https://note.com/stocktrading0_ai/n/n6883256131d2?app_launch=false" target="_blank" rel="noopener noreferrer"><img class="service-logo" src="assets/images/logos/note.svg" alt="note logo" width="40" height="32" loading="lazy" decoding="async"><span class="sns-copy"><span class="sns-service">note</span><span class="sns-name">About the author</span><span class="sns-account">@stocktrading0_ai</span></span></a></div><div class="sns-item"><a class="sns-link" href="https://x.com/suzuko_ai_" target="_blank" rel="noopener noreferrer"><img class="service-logo" src="assets/images/logos/x.svg" alt="X logo" width="40" height="32" loading="lazy" decoding="async"><span class="sns-copy"><span class="sns-service">X</span><span class="sns-name">Suzuko-chan</span><span class="sns-account">@suzuko_ai_</span></span></a></div><div class="sns-item"><a class="sns-link" href="https://x.com/stocktrading0" target="_blank" rel="noopener noreferrer"><img class="service-logo" src="assets/images/logos/x.svg" alt="X logo" width="40" height="32" loading="lazy" decoding="async"><span class="sns-copy"><span class="sns-service">X</span><span class="sns-name">Suzuki, the author</span><span class="sns-account">@stocktrading0</span></span></a></div><div class="sns-item"><a class="sns-link sns-link--logo-only" href="https://www.pixiv.net/users/116903703" target="_blank" rel="noopener noreferrer" aria-label="pixiv"><img class="service-logo" src="assets/images/logos/pixiv.svg" alt="pixiv" width="40" height="32" loading="lazy" decoding="async"></a></div><div class="sns-item"><a class="sns-link" href="https://github.com/abcderp2/suzukochan.officialsite" target="_blank" rel="noopener noreferrer"><img class="service-logo" src="assets/images/logos/github.svg" alt="GitHub logo" width="40" height="32" loading="lazy" decoding="async"><span class="sns-copy"><span class="sns-service">GitHub</span><span class="sns-account">abcderp2/suzukochan.officialsite</span></span></a></div><div class="sns-item"><a class="sns-link" href="https://sp.nicovideo.jp/user/141613837/shorts?sortKey=registeredAt&sortOrder=desc" target="_blank" rel="noopener noreferrer"><img class="service-logo" src="assets/images/logos/niconico.svg" alt="Niconico logo" width="40" height="32" loading="lazy" decoding="async"><span class="sns-copy"><span class="sns-service">Niconico</span></span></a></div><div class="sns-item"><a class="sns-link sns-link--logo-only" href="https://www.tiktok.com/@stocktrading0_ai" target="_blank" rel="noopener noreferrer" aria-label="TikTok @stocktrading0_ai"><span class="sns-service">TikTok</span></a></div></div></section>
 <p class="back-to-top"><a href="#top">Back to top</a></p></main><footer class="footer"><small>© 2026 Suzuki</small></footer></body></html>

diff --git a/scripts/check_site.py b/scripts/check_site.py
@@ -866,7 +866,7 @@ def check_bilingual_page(
         if not {"p", "li"}.issubset(news_tags):
             reporter.error(f"{name}: update history must support both p and li entries")
         latest = parser.news_items[0]
-        if latest.get("datetime") != "2026-08-27" or expected_news_text not in latest.get("text", ""):
+        if latest.get("datetime") != "2026-10-14" or expected_news_text not in latest.get("text", ""):
             reporter.error(f"{name}: latest update history is incorrect")
 
     if parser.json_ld:
@@ -943,7 +943,7 @@ def check_bilingual_pages(reporter: Reporter) -> None:
         "en.html",
         "English",
         "en",
-        "White Wing病院の公開ビジュアルを外観のみに整理し、病院画像の拡大表示機能を削除",
+        "公式ビジュアル バージョン1更新",
         reporter,
     )
     en = check_bilingual_page(
@@ -952,7 +952,7 @@ def check_bilingual_pages(reporter: Reporter) -> None:
         "index.html",
         "日本語",
         "ja",
-        "Limited the published White Wing Hospital visual to the exterior, removed hospital image enlargement",
+        "Updated official visual version 1",
         reporter,
     )
 

diff --git a/CHANGELOG.md b/CHANGELOG.md
@@ -6,6 +6,8 @@
 
 `YYYY-MM-DD | 変更理由 | 対象ファイル | 戻す単位`
 
+2026-10-14 | 公式ビジュアル バージョン1を1792×1008のWebPへ差し替え、日英ページの画像寸法と更新情報を整合。旧画像をリポジトリ内に保持 | index.html, en.html, scripts/check_site.py, assets/images/suzuko-chan-gallery-1.webp, assets/images/suzuko-chan-gallery-1-original.webp, CHANGELOG.md | SquashコミットをRevert
+
 2026-08-27 | White Wing病院の公開ビジュアルを外観1点に整理し、入口ホール・院内廊下・診察室の画像を非公開化。病院画像のCSS拡大表示を削除し、日英ページ、README、更新情報を整合。既存のレスポンシブ構成を維持 | index.html, en.html, assets/css/style.css, assets/images/white-wing-hospital/*.webp, README.md, CHANGELOG.md | SquashコミットをRevert
 
 2026-08-08 | AIの訪問と公開情報の検索・紹介を歓迎しつつ、一般的なAIモデル学習については許可も拒否も表明しない中立方針へ日英ページ、robots.txt、llms.txt、README、保守文書を統一。GPTBot、ClaudeBot、Google-Extendedの個別Disallowを削除し、個人端末内のLoRA利用と学習モデル公開禁止の既存ガイドラインは維持 | index.html, en.html, robots.txt, llms.txt, README.md, MAINTENANCE.md, CHANGELOG.md | SquashコミットをRevert
